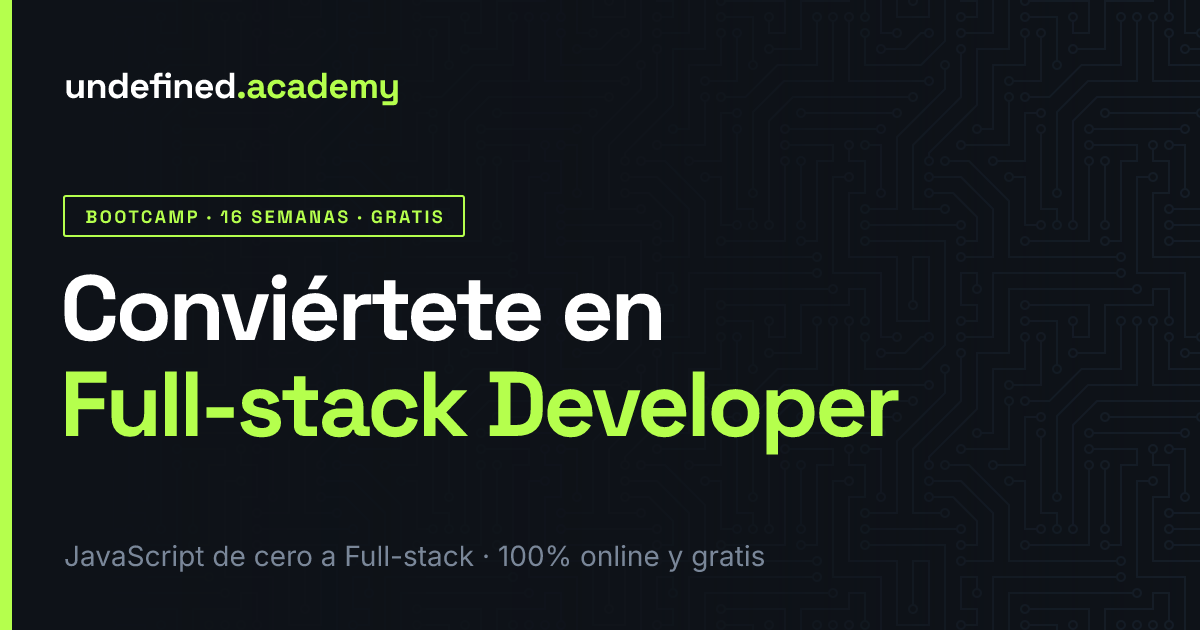
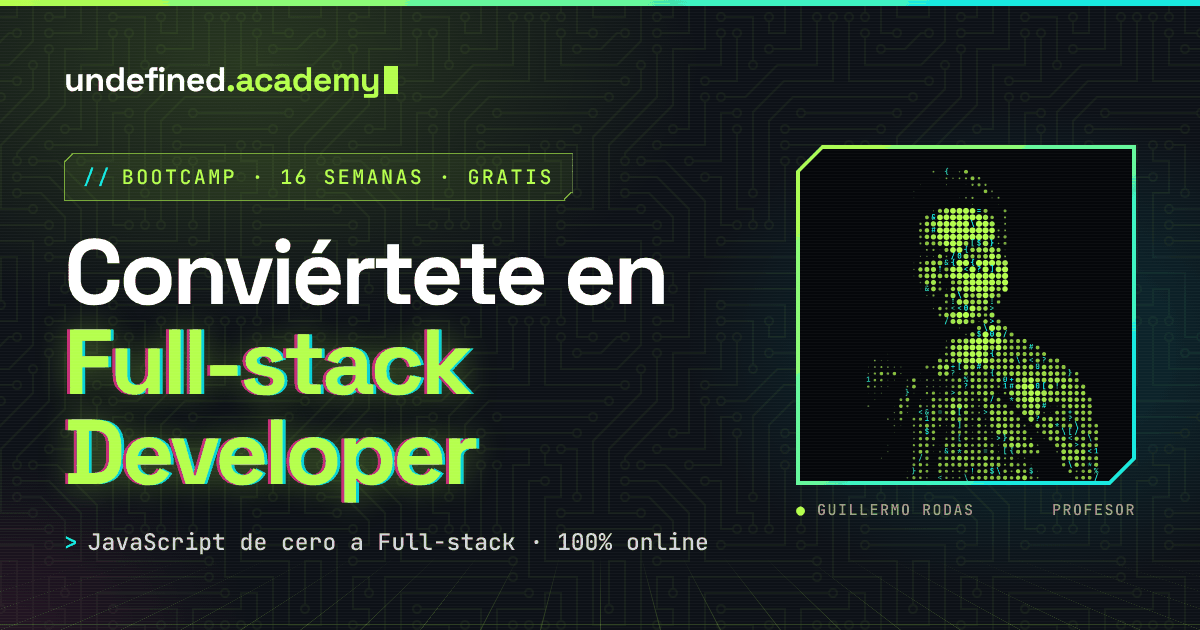
Update social preview image to the cyberpunk theme
Regenerate the 1200x630 OG image with the new look: lime circuit
pattern, neon glows, glitch headline, mono badge and the halftone
portrait used on the site. Bust social caches with ?v=2 and describe
the portrait in the image alt text.

Claude-Session: https://claude.ai/code/session_01QPXdyJ7fUnMJDcR8WwbGYK

Changed region(s): [[0.0, 0.0, 1.0, 1.0]]

diff --git a/website/index.html b/website/index.html
@@ -28,11 +28,11 @@
     <meta property="og:url"          content="https://undefined.academy/" />
     <meta property="og:title"        content="undefined.academy — Bootcamp Full-stack JavaScript" />
     <meta property="og:description"  content="Aprende JavaScript desde cero y conviértete en Full-stack Developer en 16 semanas. Bootcamp gratuito, 100% online, impartido por Guillermo Rodas." />
-    <meta property="og:image"        content="https://undefined.academy/og/og-image.png" />
+    <meta property="og:image"        content="https://undefined.academy/og/og-image.png?v=2" />
     <meta property="og:image:type"   content="image/png" />
     <meta property="og:image:width"  content="1200" />
     <meta property="og:image:height" content="630" />
-    <meta property="og:image:alt"    content="Conviértete en Full-stack Developer — Bootcamp gratuito de 16 semanas en undefined.academy" />
+    <meta property="og:image:alt"    content="Conviértete en Full-stack Developer — Bootcamp gratuito de 16 semanas en undefined.academy, con un retrato de Guillermo Rodas en estilo pixelado neón" />
     <meta property="og:locale"       content="es_ES" />
     <meta property="og:site_name"    content="undefined.academy" />
 
@@ -41,8 +41,8 @@
     <meta name="twitter:site"        content="@germorodas" />
     <meta name="twitter:title"       content="undefined.academy — Bootcamp Full-stack JavaScript" />
     <meta name="twitter:description" content="Aprende JavaScript desde cero y conviértete en Full-stack Developer en 16 semanas. Bootcamp gratuito, 100% online, impartido por Guillermo Rodas." />
-    <meta name="twitter:image"       content="https://undefined.academy/og/og-image.png" />
-    <meta name="twitter:image:alt"   content="Conviértete en Full-stack Developer — Bootcamp gratuito de 16 semanas en undefined.academy" />
+    <meta name="twitter:image"       content="https://undefined.academy/og/og-image.png?v=2" />
+    <meta name="twitter:image:alt"   content="Conviértete en Full-stack Developer — Bootcamp gratuito de 16 semanas en undefined.academy, con un retrato de Guillermo Rodas en estilo pixelado neón" />
 
     <!-- Structured Data -->
     <script type="application/ld+json">
